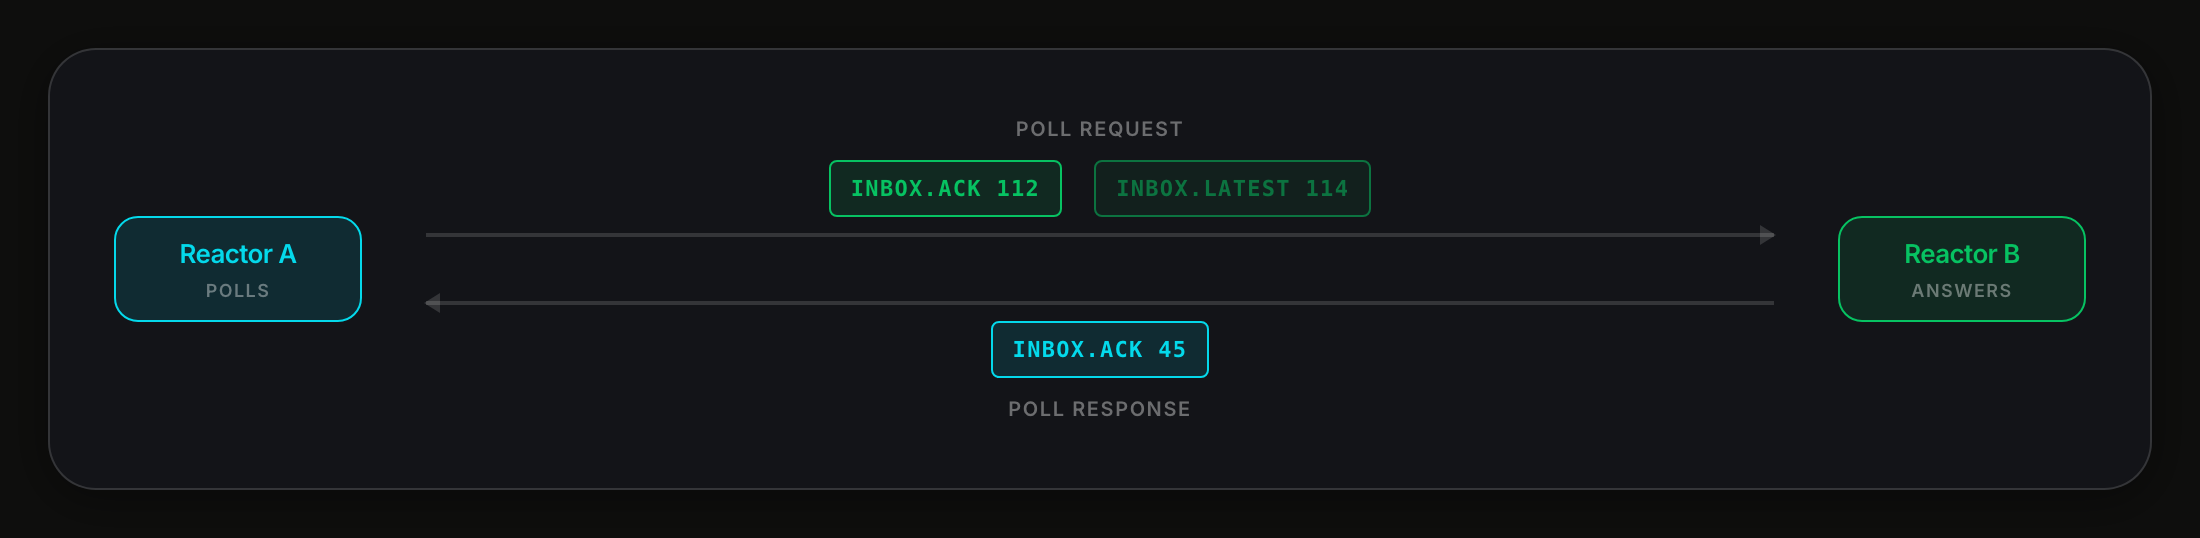
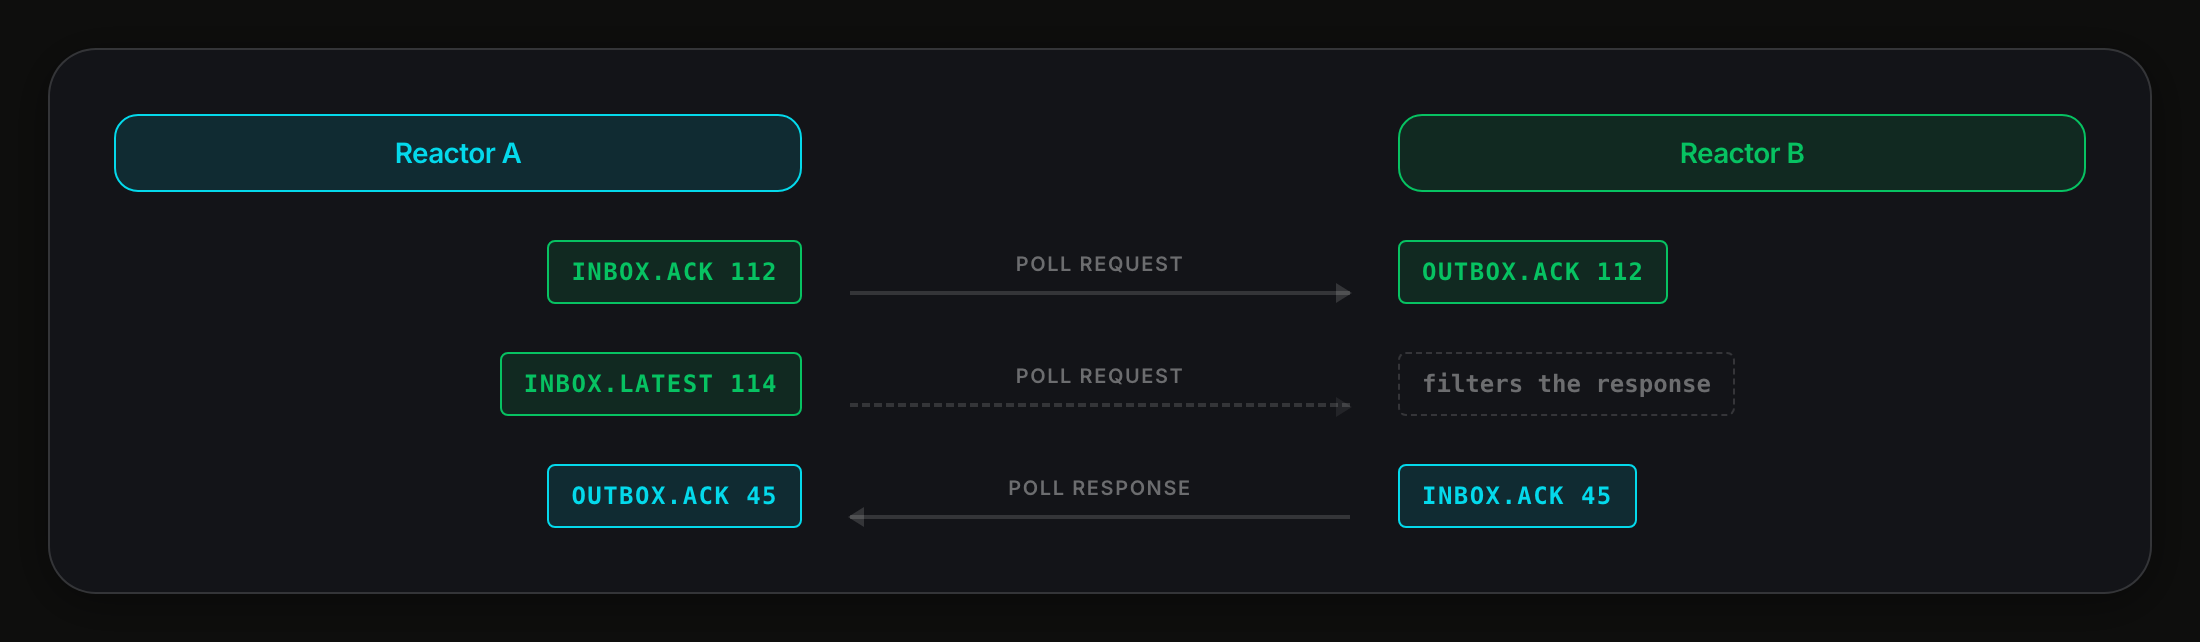
rebuild: poll slide visualizes the cursor crossover

diff --git a/diagrams/pages/poll-piggyback-acks.html b/diagrams/pages/poll-piggyback-acks.html
@@ -9,76 +9,54 @@
   <link rel="stylesheet" href="../css/base.css">
   <link rel="stylesheet" href="../css/components.css">
   <style>
-    /* Two messages, one each way. Each carries operations in its own direction and an
-       acknowledgement of the other side's operations coming back. What each message carries
-       is the sender's inbox cursors, and an inbox's cursors are always stated in the OTHER
-       reactor's ordinal space — so the request is green (B's numbers) and the response cyan
-       (A's numbers). That flip is the whole point of the slide.
+    /* What a poll actually moves, cursor by cursor.
 
-       A's ordinals are in the 40s and B's in the 110s because they are genuinely separate
-       spaces. 45 and 47 are B's inbox cursors from the previous slide, unchanged.
+       Each row is one cursor crossing the wire and landing on the other reactor's opposite
+       cursor — an inbox ack on one side sets an outbox ack on the other. The middle row is
+       the exception the slide exists to show: inbox.latest crosses too, but lands on
+       nothing; the server uses it only to filter which operations to return.
 
-       The rows are deliberately uneven. The request sends both inbox cursors
-       (gql-req-channel.ts:316 passes inbox.ackOrdinal and inbox.latestOrdinal); the response
-       returns only an ackOrdinal, no latest. That asymmetry is real, not a simplification.
+       A crossing never changes ordinal space, so each row is a single colour. Green rows are
+       B's ordinals (A's inbox holds B's operations), the cyan row is A's. Source:
+       packages/reactor/src/sync/design.md and resolvers.ts:1118 / :1178.
 
-       Endpoint boxes, pill tags and line treatment match sync-cursors. Everything is placed
-       explicitly. */
+       Endpoint boxes, pill tags and the line-with-arrowhead match sync-cursors. Everything
+       is placed explicitly. */
     .frame { max-width: 1100px; }
     .card { height: auto; }
     .card-body { flex: none; }
 
     .wrap {
       display: grid;
-      grid-template-columns: 124px 1fr 124px;
-      column-gap: var(--space-xl);
-      row-gap: var(--space-xl);
+      grid-template-columns: 1fr 250px 1fr;
+      column-gap: var(--space-lg);
+      row-gap: var(--space-lg);
       align-items: center;
     }
 
     .endpoint {
-      grid-row: 1 / 3;
+      grid-row: 1;
       border: 1px solid var(--border-glass);
       border-radius: var(--radius-md);
       padding: var(--space-sm) var(--space-md);
-      font-size: 13px;
+      font-size: 14px;
       font-weight: var(--font-weight-semibold);
       text-align: center;
       background: var(--bg-elevated);
     }
     .endpoint.a { grid-column: 1; border-color: var(--accent-cyan);  background: var(--accent-cyan-bg);  color: var(--accent-cyan); }
     .endpoint.b { grid-column: 3; border-color: var(--accent-green); background: var(--accent-green-bg); color: var(--accent-green); }
-    .endpoint .role {
-      display: block;
-      font-size: 9px;
-      font-weight: var(--font-weight-semibold);
-      letter-spacing: 0.08em;
-      text-transform: uppercase;
-      color: var(--text-muted);
-      margin-top: 2px;
-    }
 
-    .msg {
-      grid-column: 2;
-      display: flex;
-      flex-direction: column;
-      align-items: center;
-      gap: 8px;
-    }
-    .msg-label {
-      font-size: 10px;
-      font-weight: var(--font-weight-semibold);
-      letter-spacing: 0.08em;
-      text-transform: uppercase;
-      color: var(--text-muted);
-    }
-    .chips { display: flex; gap: var(--space-md); }
+    .left  { grid-column: 1; justify-self: end; }
+    .right { grid-column: 3; justify-self: start; }
+
     .chip {
-      font-size: 11px;
+      display: inline-block;
+      font-size: 12px;
       font-weight: var(--font-weight-semibold);
       letter-spacing: 0.06em;
       text-transform: uppercase;
-      padding: 5px 10px;
+      padding: 6px 11px;
       border-radius: var(--radius-xs);
       border: 1px solid;
       white-space: nowrap;
@@ -86,13 +64,25 @@
     }
     .chip.cyan  { color: var(--accent-cyan);  border-color: var(--accent-cyan);  background: var(--accent-cyan-bg); }
     .chip.green { color: var(--accent-green); border-color: var(--accent-green); background: var(--accent-green-bg); }
-
-    .arrow {
-      position: relative;
-      width: 100%;
-      height: 2px;
-      background: var(--border-glass);
+    /* lands nowhere */
+    .chip.none {
+      color: var(--text-muted);
+      border-color: var(--border-glass);
+      border-style: dashed;
+      background: transparent;
+      text-transform: none;
+      letter-spacing: 0;
     }
+
+    .hop { grid-column: 2; display: flex; flex-direction: column; align-items: center; gap: 6px; }
+    .hop-label {
+      font-size: 10px;
+      font-weight: var(--font-weight-semibold);
+      letter-spacing: 0.08em;
+      text-transform: uppercase;
+      color: var(--text-muted);
+    }
+    .arrow { position: relative; width: 100%; height: 2px; background: var(--border-glass); }
     .arrow::after {
       content: '';
       position: absolute;
@@ -103,6 +93,13 @@
     }
     .arrow.to-b::after { right: -1px; border-left:  8px solid var(--border-glass); }
     .arrow.to-a::after { left:  -1px; border-right: 8px solid var(--border-glass); }
+    /* the one that carries no cursor with it */
+    .arrow.filters {
+      background: none;
+      border-top: 2px dashed var(--border-glass);
+      height: 0;
+    }
+    .arrow.filters::after { right: -1px; border-left: 8px solid var(--border-glass); opacity: 0.5; }
   </style>
 </head>
 <body>
@@ -111,28 +108,32 @@
       <div class="card-body">
         <div class="wrap">
 
-          <div class="endpoint a">Reactor A<span class="role">polls</span></div>
+          <div class="endpoint a">Reactor A</div>
+          <div class="endpoint b">Reactor B</div>
 
-          <!-- A -> B : A's new operations, plus A's ack of B's -->
-          <div class="msg" style="grid-row: 1;">
-            <div class="msg-label">poll request</div>
-            <div class="chips">
-              <span class="chip green">inbox.ack 112</span>
-              <span class="chip green">inbox.latest 114</span>
-            </div>
+          <!-- ack crosses and sets the opposite cursor -->
+          <div class="left"  style="grid-row: 2;"><span class="chip green">inbox.ack 112</span></div>
+          <div class="hop"   style="grid-row: 2;">
+            <div class="hop-label">poll request</div>
             <div class="arrow to-b"></div>
           </div>
+          <div class="right" style="grid-row: 2;"><span class="chip green">outbox.ack 112</span></div>
 
-          <div class="endpoint b">Reactor B<span class="role">answers</span></div>
-
-          <!-- B -> A : B's new operations, plus B's ack of A's -->
-          <div class="msg" style="grid-row: 2;">
-            <div class="arrow to-a"></div>
-            <div class="chips">
-              <span class="chip cyan">inbox.ack 45</span>
-            </div>
-            <div class="msg-label">poll response</div>
+          <!-- latest crosses but sets nothing -->
+          <div class="left"  style="grid-row: 3;"><span class="chip green">inbox.latest 114</span></div>
+          <div class="hop"   style="grid-row: 3;">
+            <div class="hop-label">poll request</div>
+            <div class="arrow to-b filters"></div>
           </div>
+          <div class="right" style="grid-row: 3;"><span class="chip none">filters the response</span></div>
+
+          <!-- and the same crossing in the other direction -->
+          <div class="left"  style="grid-row: 4;"><span class="chip cyan">outbox.ack 45</span></div>
+          <div class="hop"   style="grid-row: 4;">
+            <div class="hop-label">poll response</div>
+            <div class="arrow to-a"></div>
+          </div>
+          <div class="right" style="grid-row: 4;"><span class="chip cyan">inbox.ack 45</span></div>
 
         </div>
       </div>
